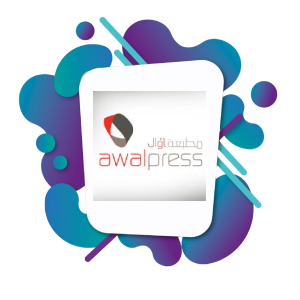
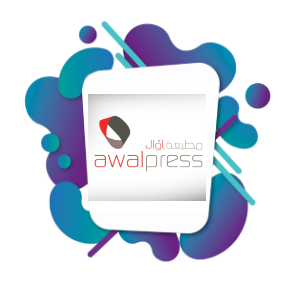
up

Changed region(s): [[0.06, 0.06, 0.93, 0.9]]

diff --git a/src/components/clients/Clients.jsx b/src/components/clients/Clients.jsx
@@ -34,33 +34,33 @@ const items = [
     },
     {
         id:7,
-        title:"Aqua",
-        img:"/aqua.png",
+        title:"Al Farhan Plastic",
+        img:"/al-farhan-plastic.png",
     },
     {
         id:8,
-        title:"Awal-Press",
-        img:"/awalpress.png",
+        title:"Dar Akhbar Al Khaleej",
+        img:"/dar-akhbar-al-khaleej.png",
     },
     {
         id:9,
-        title:"bwbb",
-        img:"/bwbb.png",
+        title:"Ramez",
+        img:"/ramez.png",
     },
     {
         id:10,
-        title:"Imprensa",
-        img:"/imprensa.png",
+        title:"Jalal Lonics Co Wll",
+        img:"/jalal-lonics-co-wll.png",
     },
     {
         id:11,
-        title:"Arabian-Impressions",
-        img:"/arabian-impressions.png",
+        title:"Wadi Al Salam Tissue",
+        img:"/wadi-al-salam-tissue.png",
     },
     {
         id:12,
-        title:"Maskati",
-        img:"/maskati.png",
+        title:"Global Water Bottling Company",
+        img:"/global-water-bottling-co.png",
     },
 ];
 

diff --git a/src/components/copyright/copyright.scss b/src/components/copyright/copyright.scss
@@ -4,6 +4,9 @@
     background:linear-gradient(356deg, rgb(8 8 8), rgba(8, 133, 231, 0.8392156863));
     text-align: center;
     padding: 40px;
+    @include mobile{
+        font-size: 10px;
+    }
 }
 .copyright{
   
